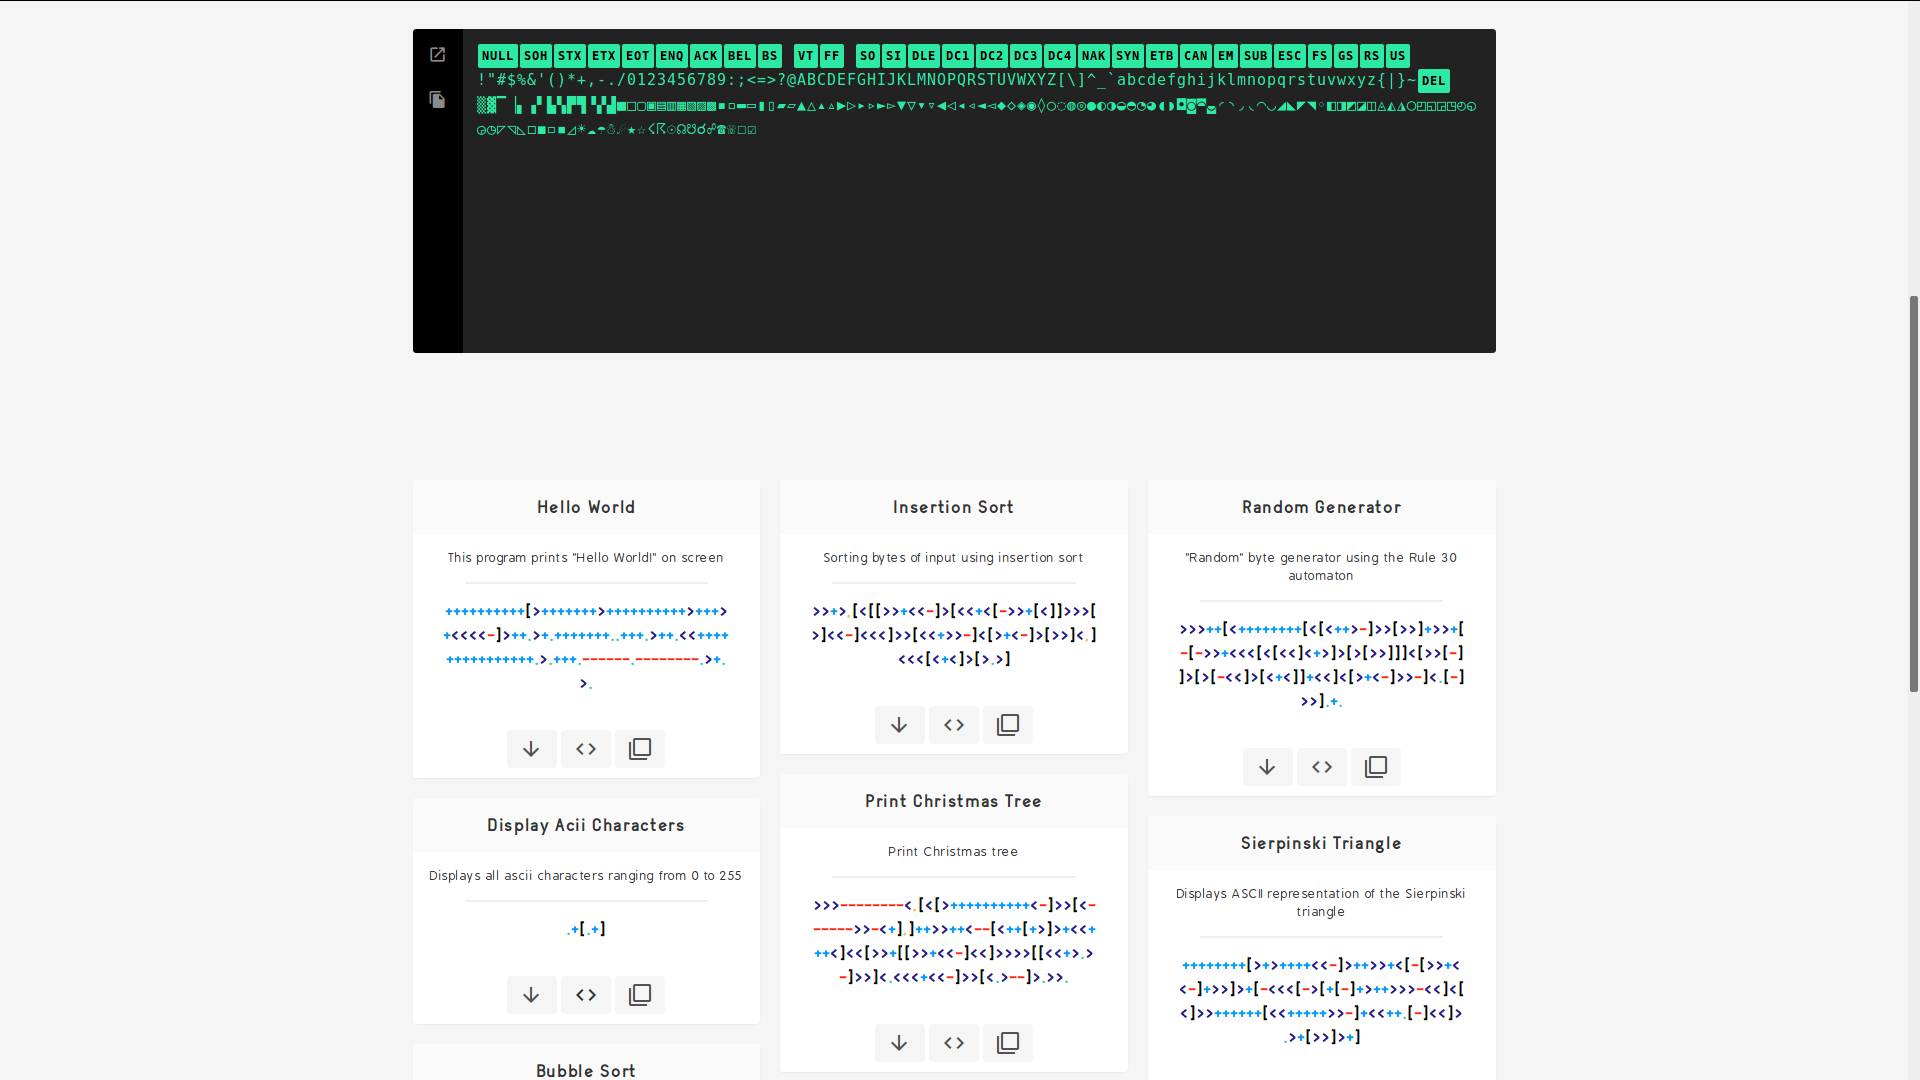
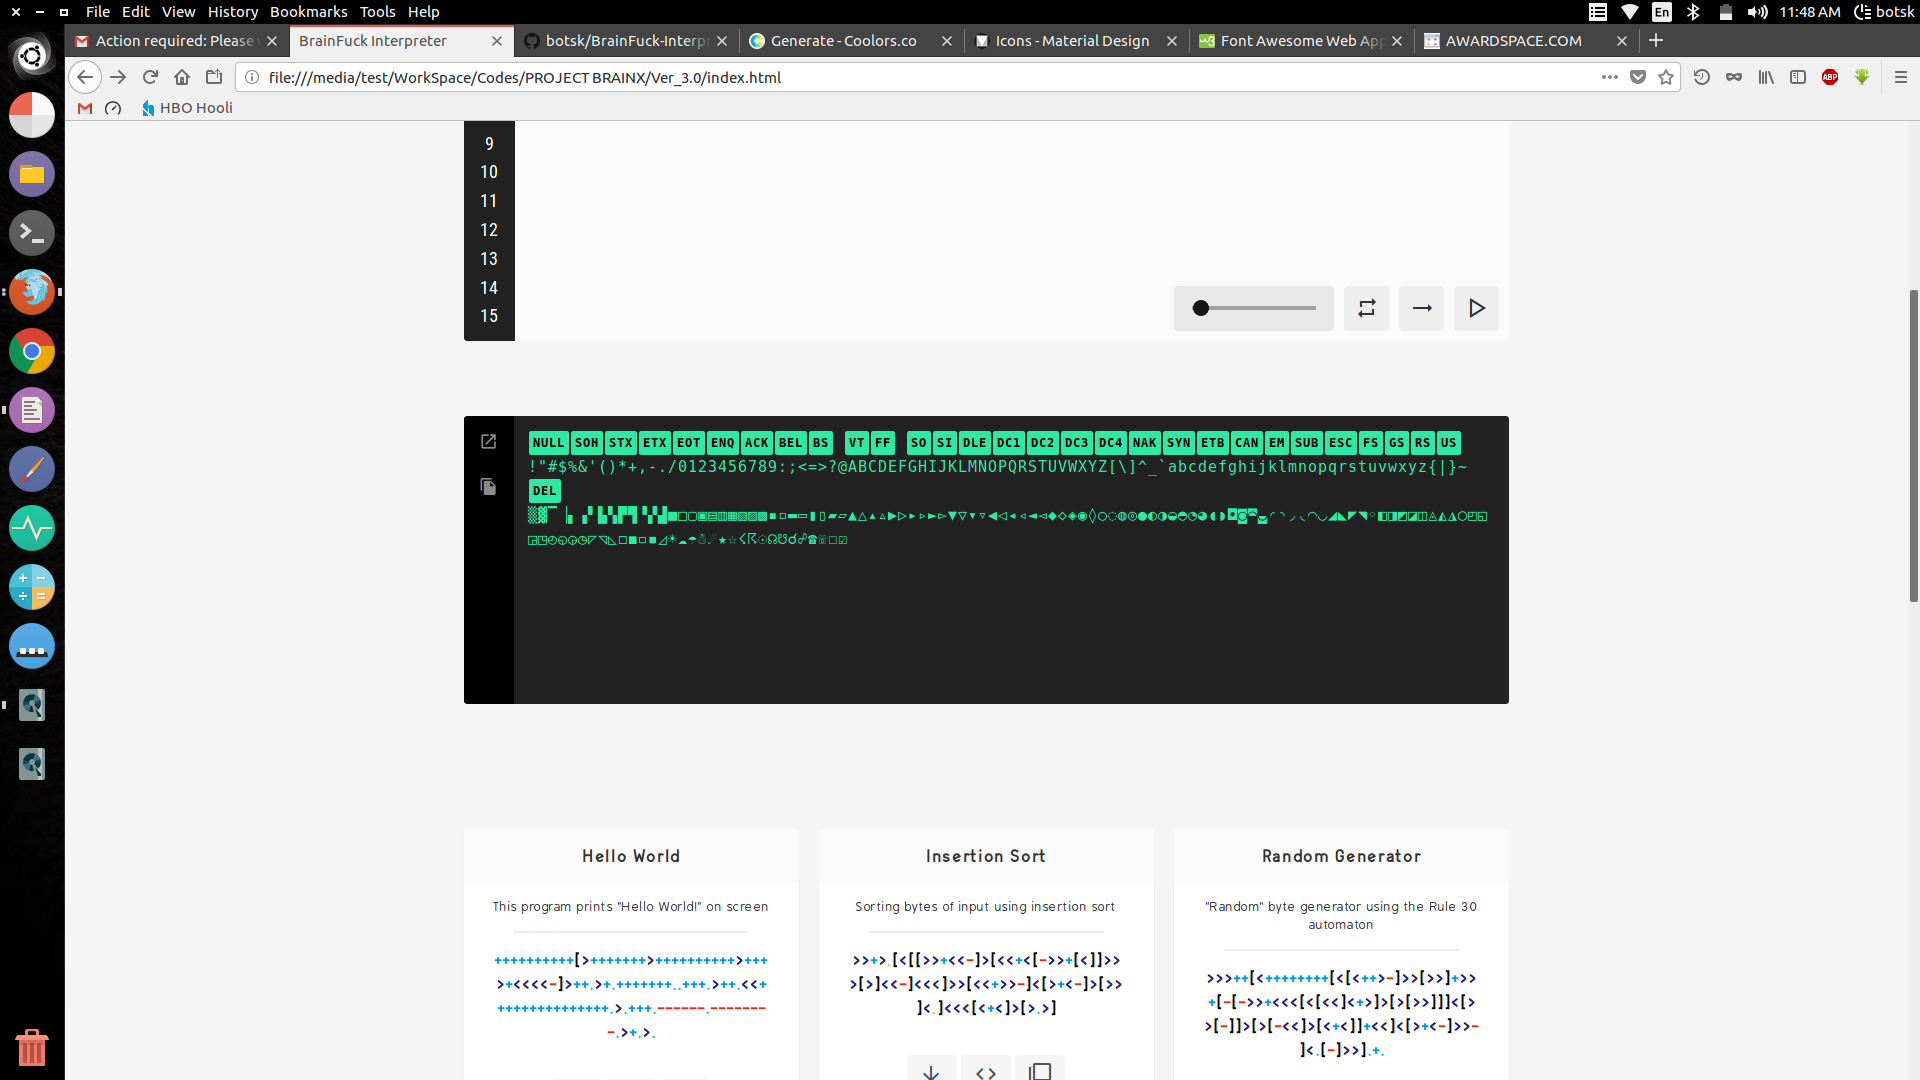
updated readme.md

diff --git a/README.md b/README.md
@@ -29,7 +29,12 @@ The language's name is a reference to the slang term brainfuck, which refers to 
 
 An Interpreter for BrainFuck is developed using web development tools ```HTML``` + ```CSS``` + ```JS``` .
 
+#### ``` Contains 3000 Cells ```
 ![brainfuck.xyz](screenshots/page_0.png)
+
+#### ``` Console supporting all ascii characters ```
 ![brainfuck.xyz#console](screenshots/page_1.png)
+
+#### ``` Sample codes provided ```
 ![brainfuck.xyz#samples-div](screenshots/page_2.png)
 
